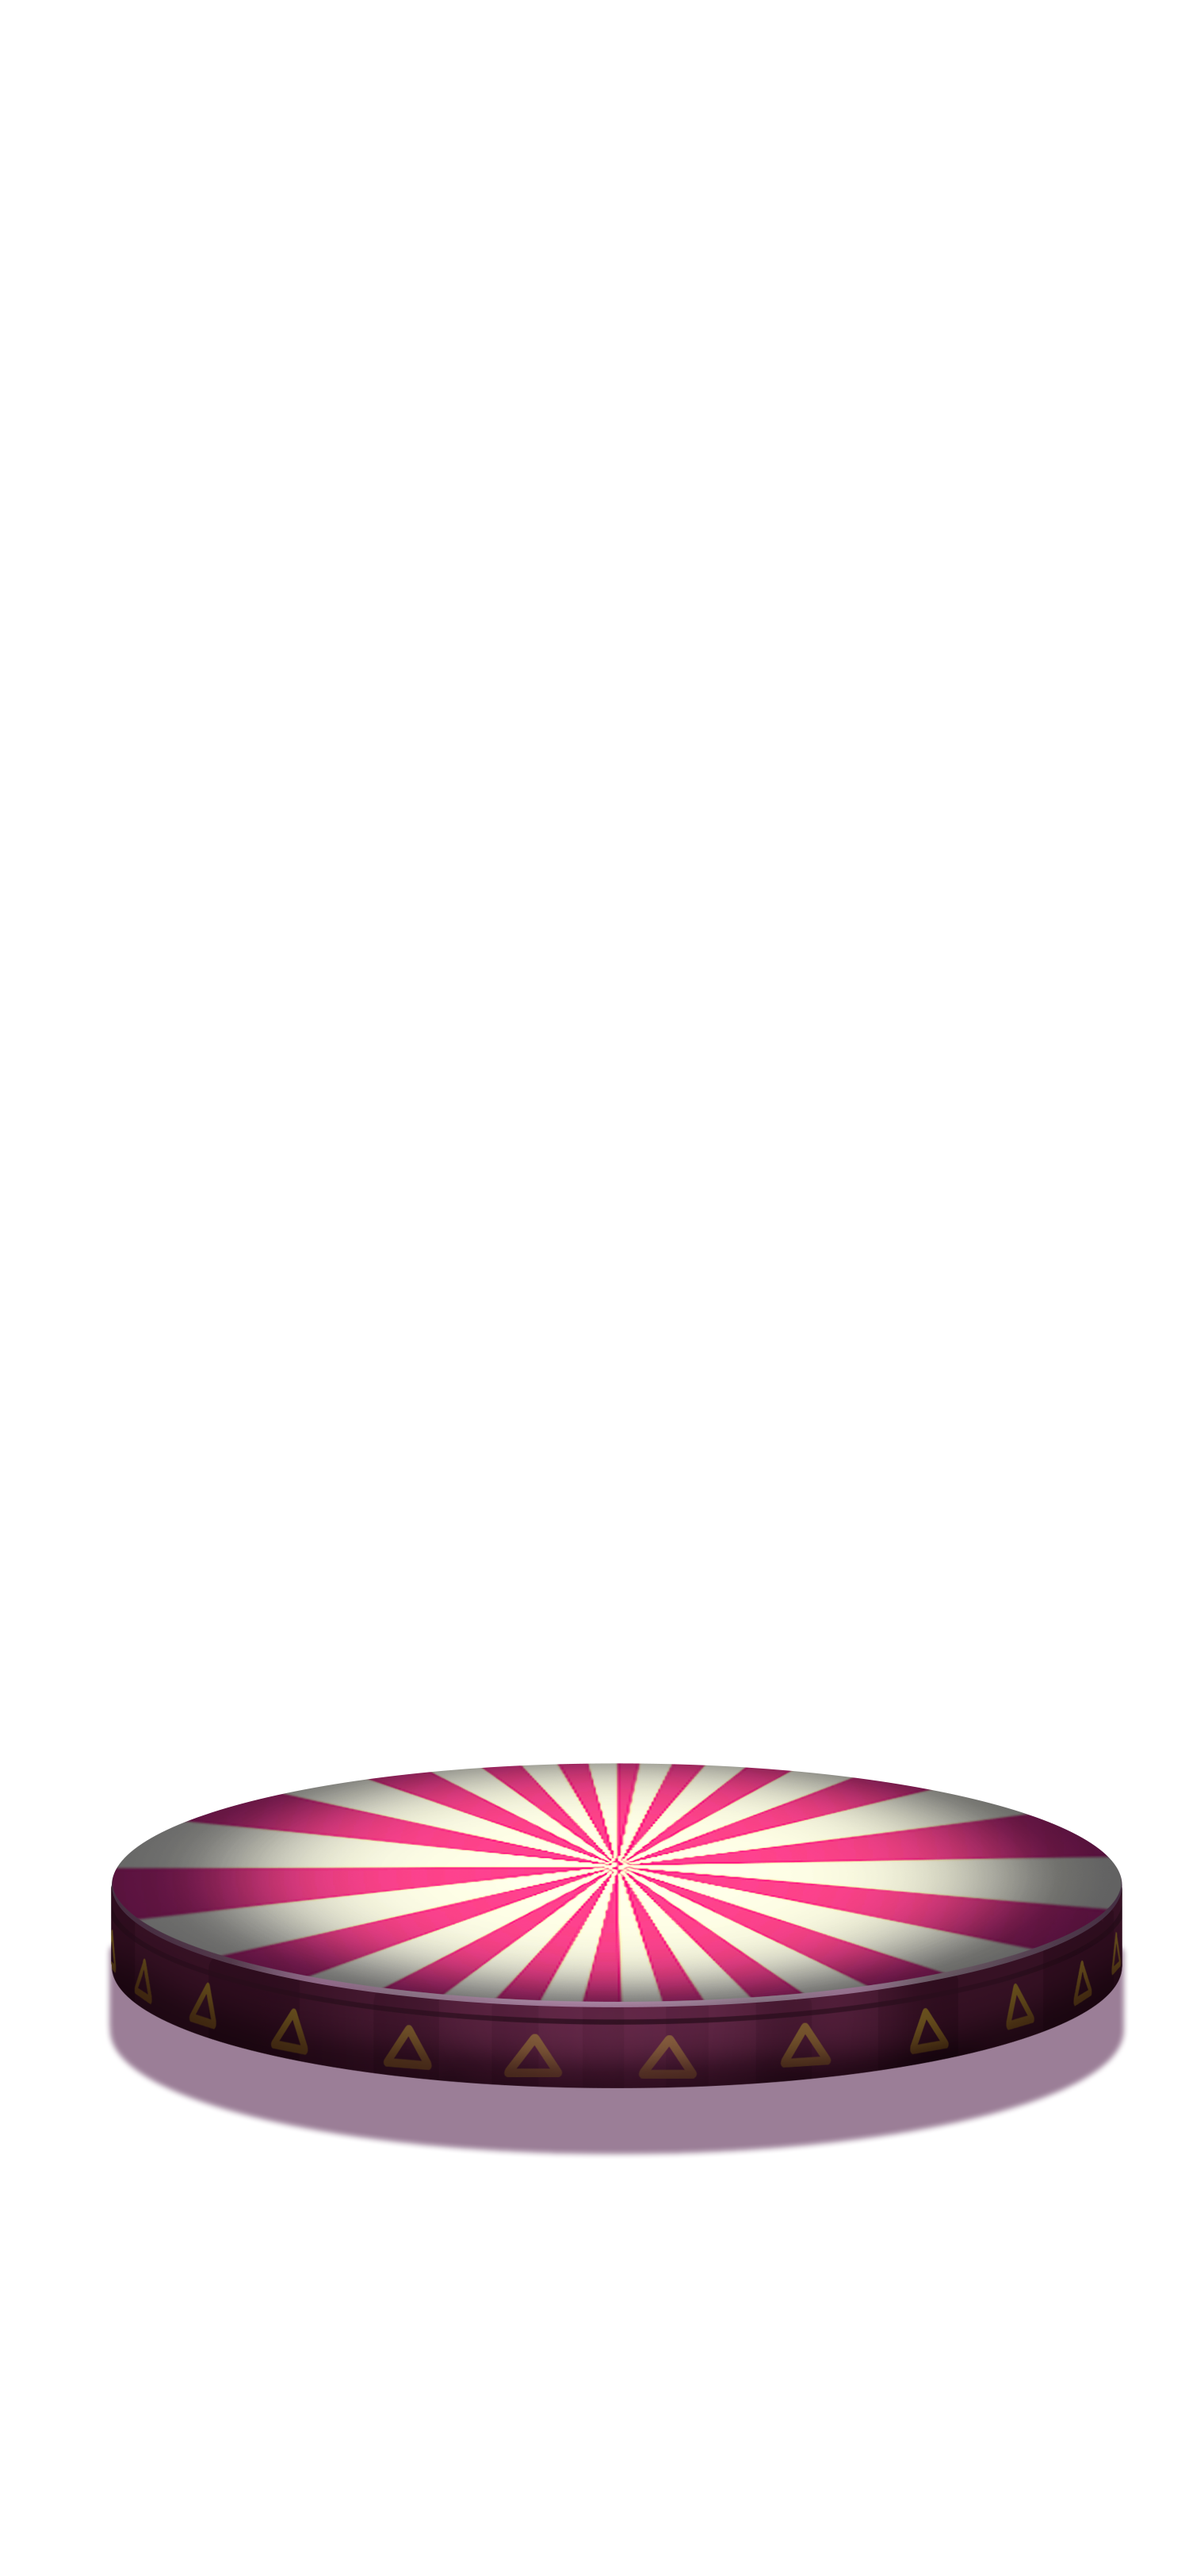
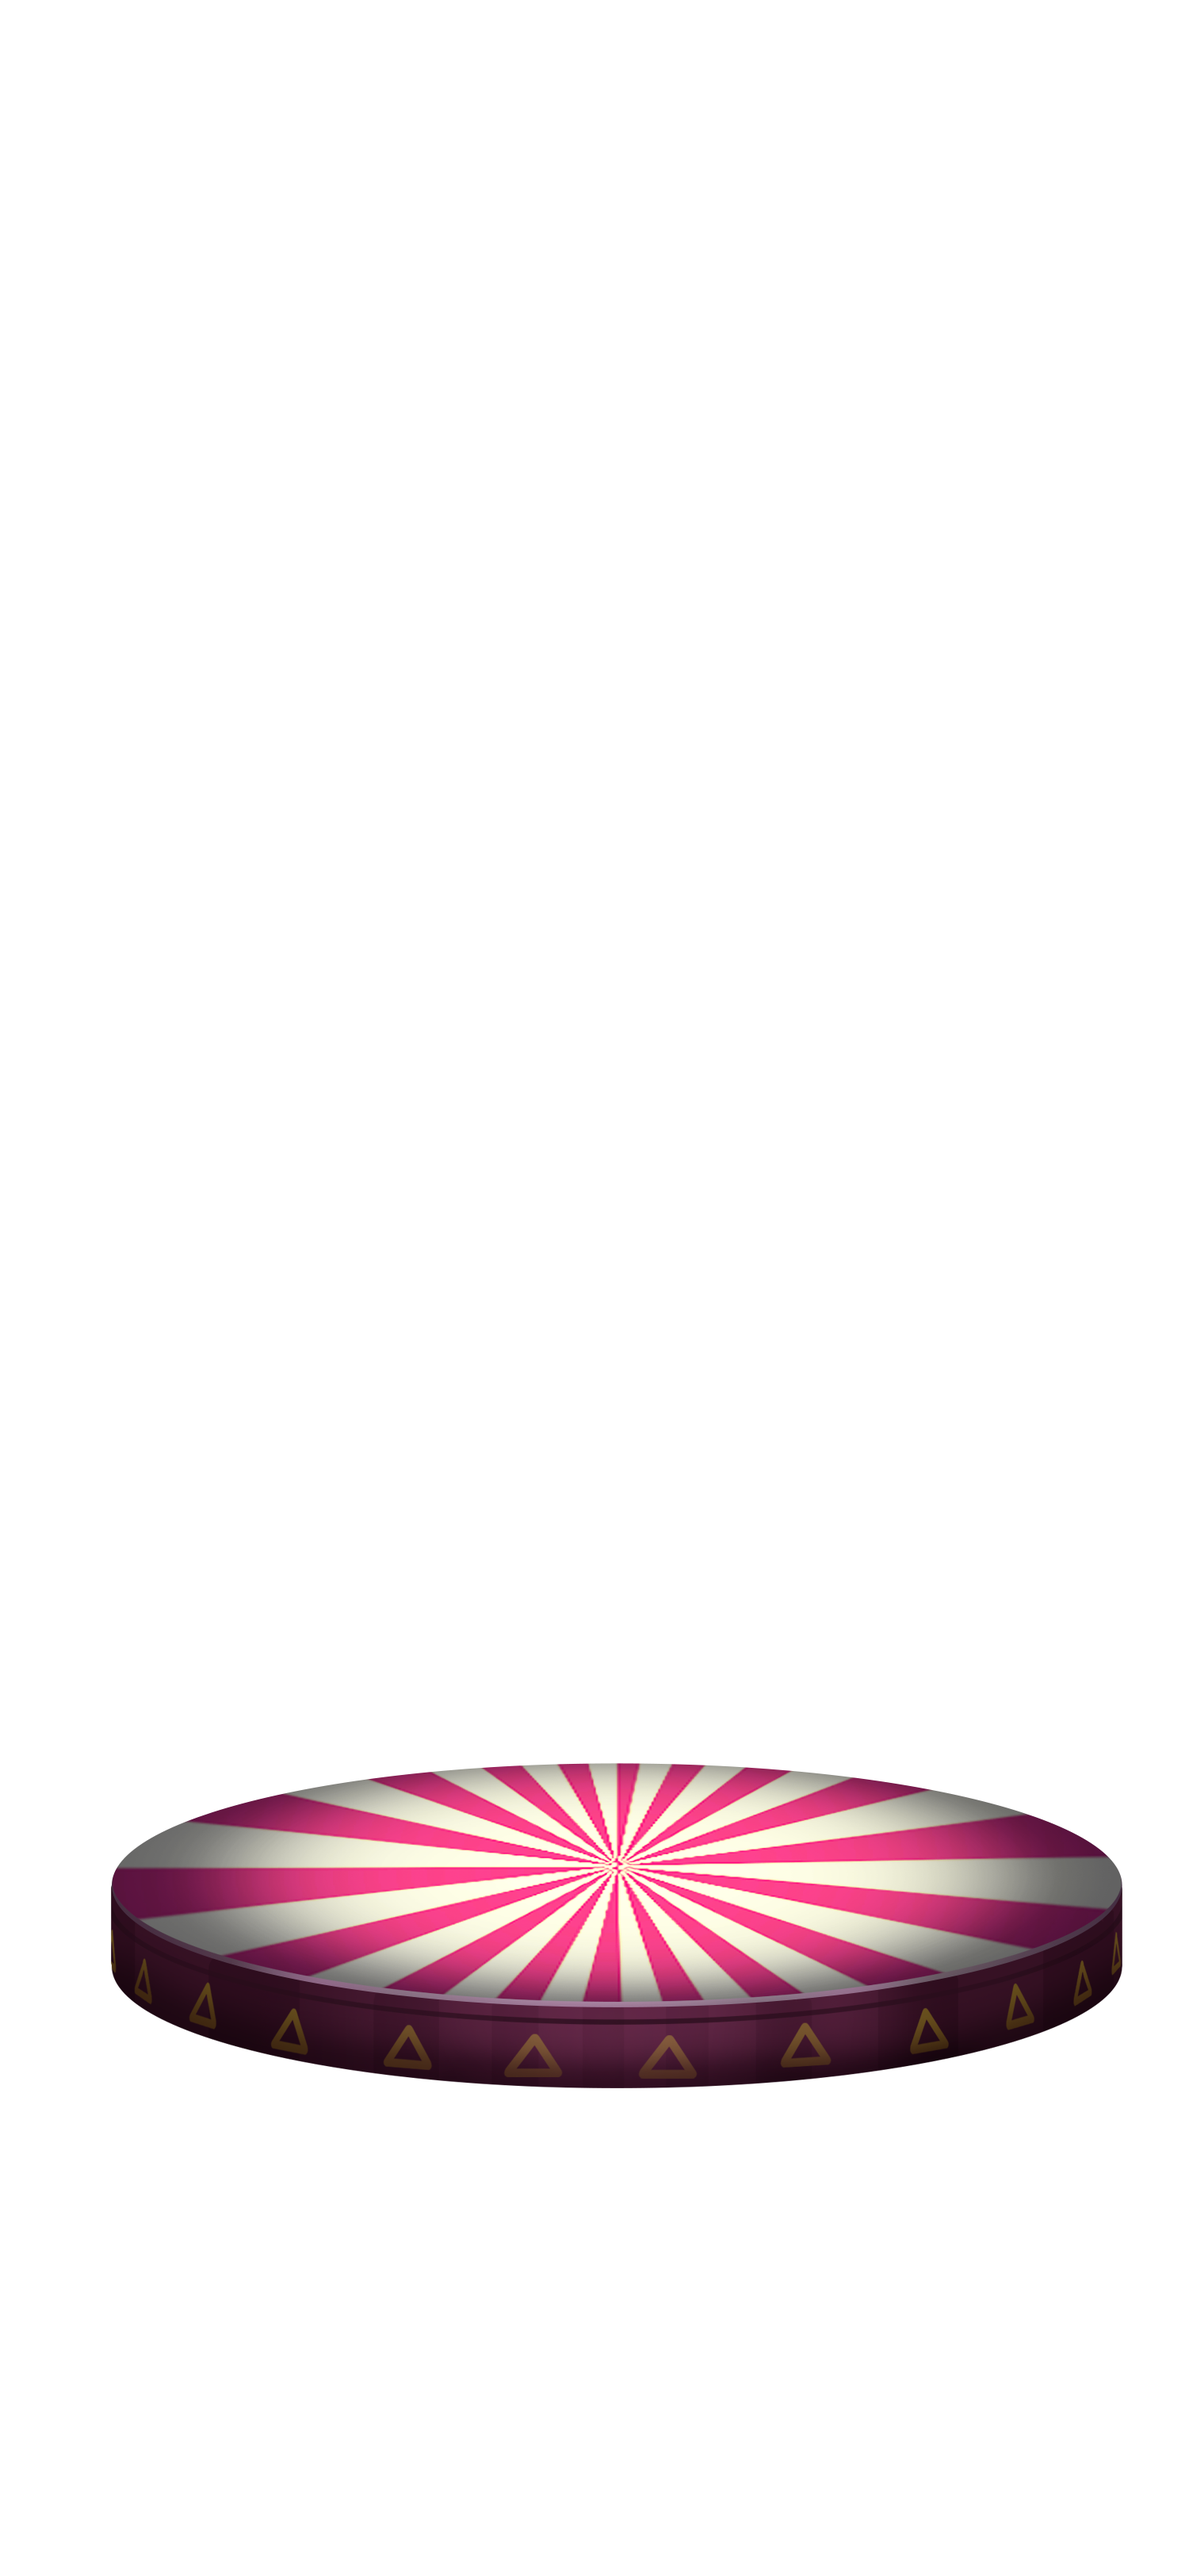
change layout effect

Changed region(s): [[0.092, 0.7463, 0.9507, 0.8396]]

diff --git a/public/index.html b/public/index.html
@@ -158,6 +158,11 @@
         );
       }
 
+      /* Auto earn button default position - override all media queries */
+      .flex.justify-end.mr-4.mb-4.relative.z-50 {
+        transform: translateY(67px) !important;
+      }
+
       /* Telegram WebApp Styles */
       .in-telegram-app {
         max-width: 100%;
@@ -230,6 +235,19 @@
           padding-left: 10px;
           padding-right: 10px;
         }
+
+        /* Character overlay adjustments for iPhone 12 Pro */
+        #character-overlay {
+          bottom: 200px !important;
+        }
+
+        /* Bottom layout adjustments for iPhone 12 Pro */
+        .bottom-layout-image {
+          bottom: -20px !important;
+        }
+        .flex.justify-end.mr-4.mb-4.relative.z-50 {
+          transform: translateY(26px) !important;
+        }
       }
 
       /* Styles for larger phones (iPhone Pro Max, larger Android) */
@@ -245,6 +263,21 @@
         #main-stage {
           height: 280px;
           background-size: auto 85%;
+        }
+
+        /* Character overlay adjustments for iPhone 14 Pro Max */
+        #character-overlay {
+          bottom: 210px !important;
+        }
+
+        /* Bottom layout adjustments for iPhone 14 Pro Max */
+        .bottom-layout-image {
+          bottom: -25px !important;
+        }
+
+        /* Auto earn button adjustments for iPhone 14 Pro Max */
+        .flex.justify-end.mr-4.mb-4.relative.z-50 {
+          transform: translateY(33px) !important;
         }
       }
 
@@ -301,12 +334,12 @@
       /* iPhone SE specific adjustments */
       @media screen and (max-width: 375px) {
         .bottom-layout-image {
-          bottom: -55px !important;
+          bottom: -75px !important;
         }
 
         /* Character overlay adjustments for iPhone SE */
         #character-overlay {
-          bottom: 200px !important;
+          bottom: 170px !important;
           height: 240px !important;
         }
 
@@ -314,7 +347,7 @@
         .flex.justify-end.mr-4.mb-4.relative.z-50 {
           margin-bottom: 20px !important;
           margin-right: 12px !important;
-          transform: translateY(-80px) !important;
+          transform: translateY(-57px) !important;
         }
 
         /* Alternative selector for auto earn container */
@@ -457,6 +490,11 @@
         .mb-4 {
           margin-bottom: 0.5rem;
         }
+      }
+
+      /* HIGH PRIORITY OVERRIDE - Must be last to override all media queries */
+      .game-container .flex.justify-end.mr-4.mb-4.relative.z-50 {
+        transform: translateY(67px) !important;
       }
     </style>
   </head>
@@ -631,7 +669,7 @@
       <!-- Character overlay to appear above bottom layout -->
       <div
         id="character-overlay"
-        class="absolute bottom-[280px] left-0 right-0 z-40 pointer-events-none"
+        class="absolute bottom-[240px] left-0 right-0 z-40 pointer-events-none"
       >
         <div
           class="w-full h-[280px] bg-no-repeat bg-center bg-contain"

diff --git a/public/js/taptoearn.js b/public/js/taptoearn.js
@@ -985,19 +985,26 @@ function triggerBottomLayoutFlash() {
   const bottomLayoutContainer = document.getElementById(
     "bottom-layout-container"
   );
-  if (bottomLayoutContainer) {
+  const bottomLayoutImage = bottomLayoutContainer?.querySelector("img");
+
+  if (bottomLayoutContainer && bottomLayoutImage) {
     // Remove existing flash class if any
     bottomLayoutContainer.classList.remove("flash-active");
 
     // Force reflow to ensure the class removal takes effect
     bottomLayoutContainer.offsetHeight;
 
+    // Change to bottom-layout-2.png when tapping
+    bottomLayoutImage.src = "./images/screen1/bottom-layout-2.png";
+
     // Add flash class to trigger animation
     bottomLayoutContainer.classList.add("flash-active");
 
-    // Remove flash class after animation completes
+    // Remove flash class and restore original image after animation completes
     setTimeout(() => {
       bottomLayoutContainer.classList.remove("flash-active");
+      // Restore original image
+      bottomLayoutImage.src = "./images/screen1/bottom-layout.png";
     }, 800); // Match animation duration
   }
 }
